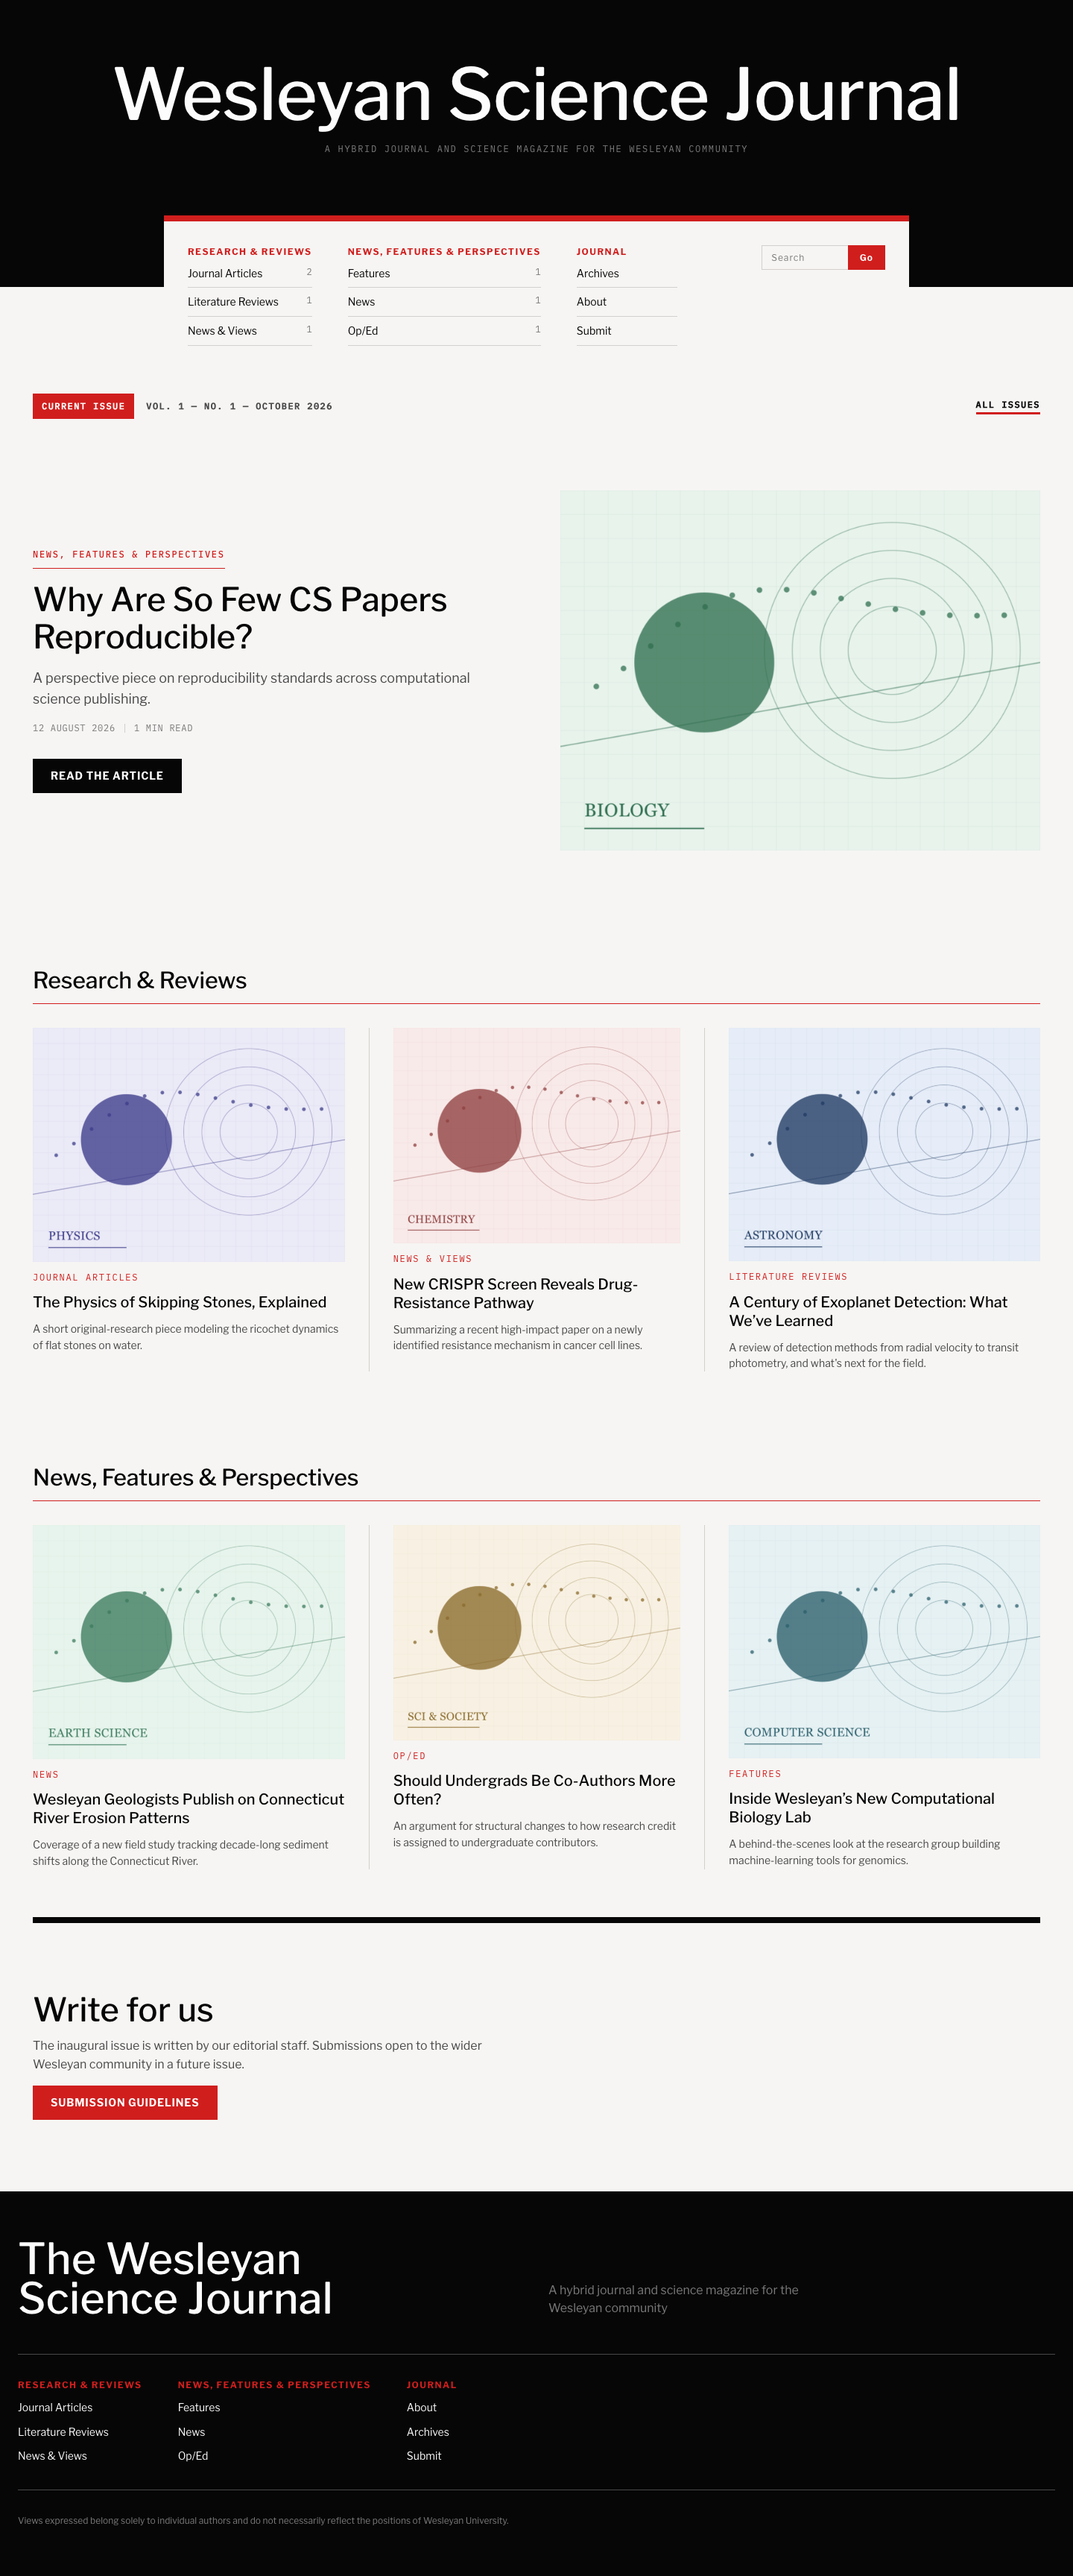
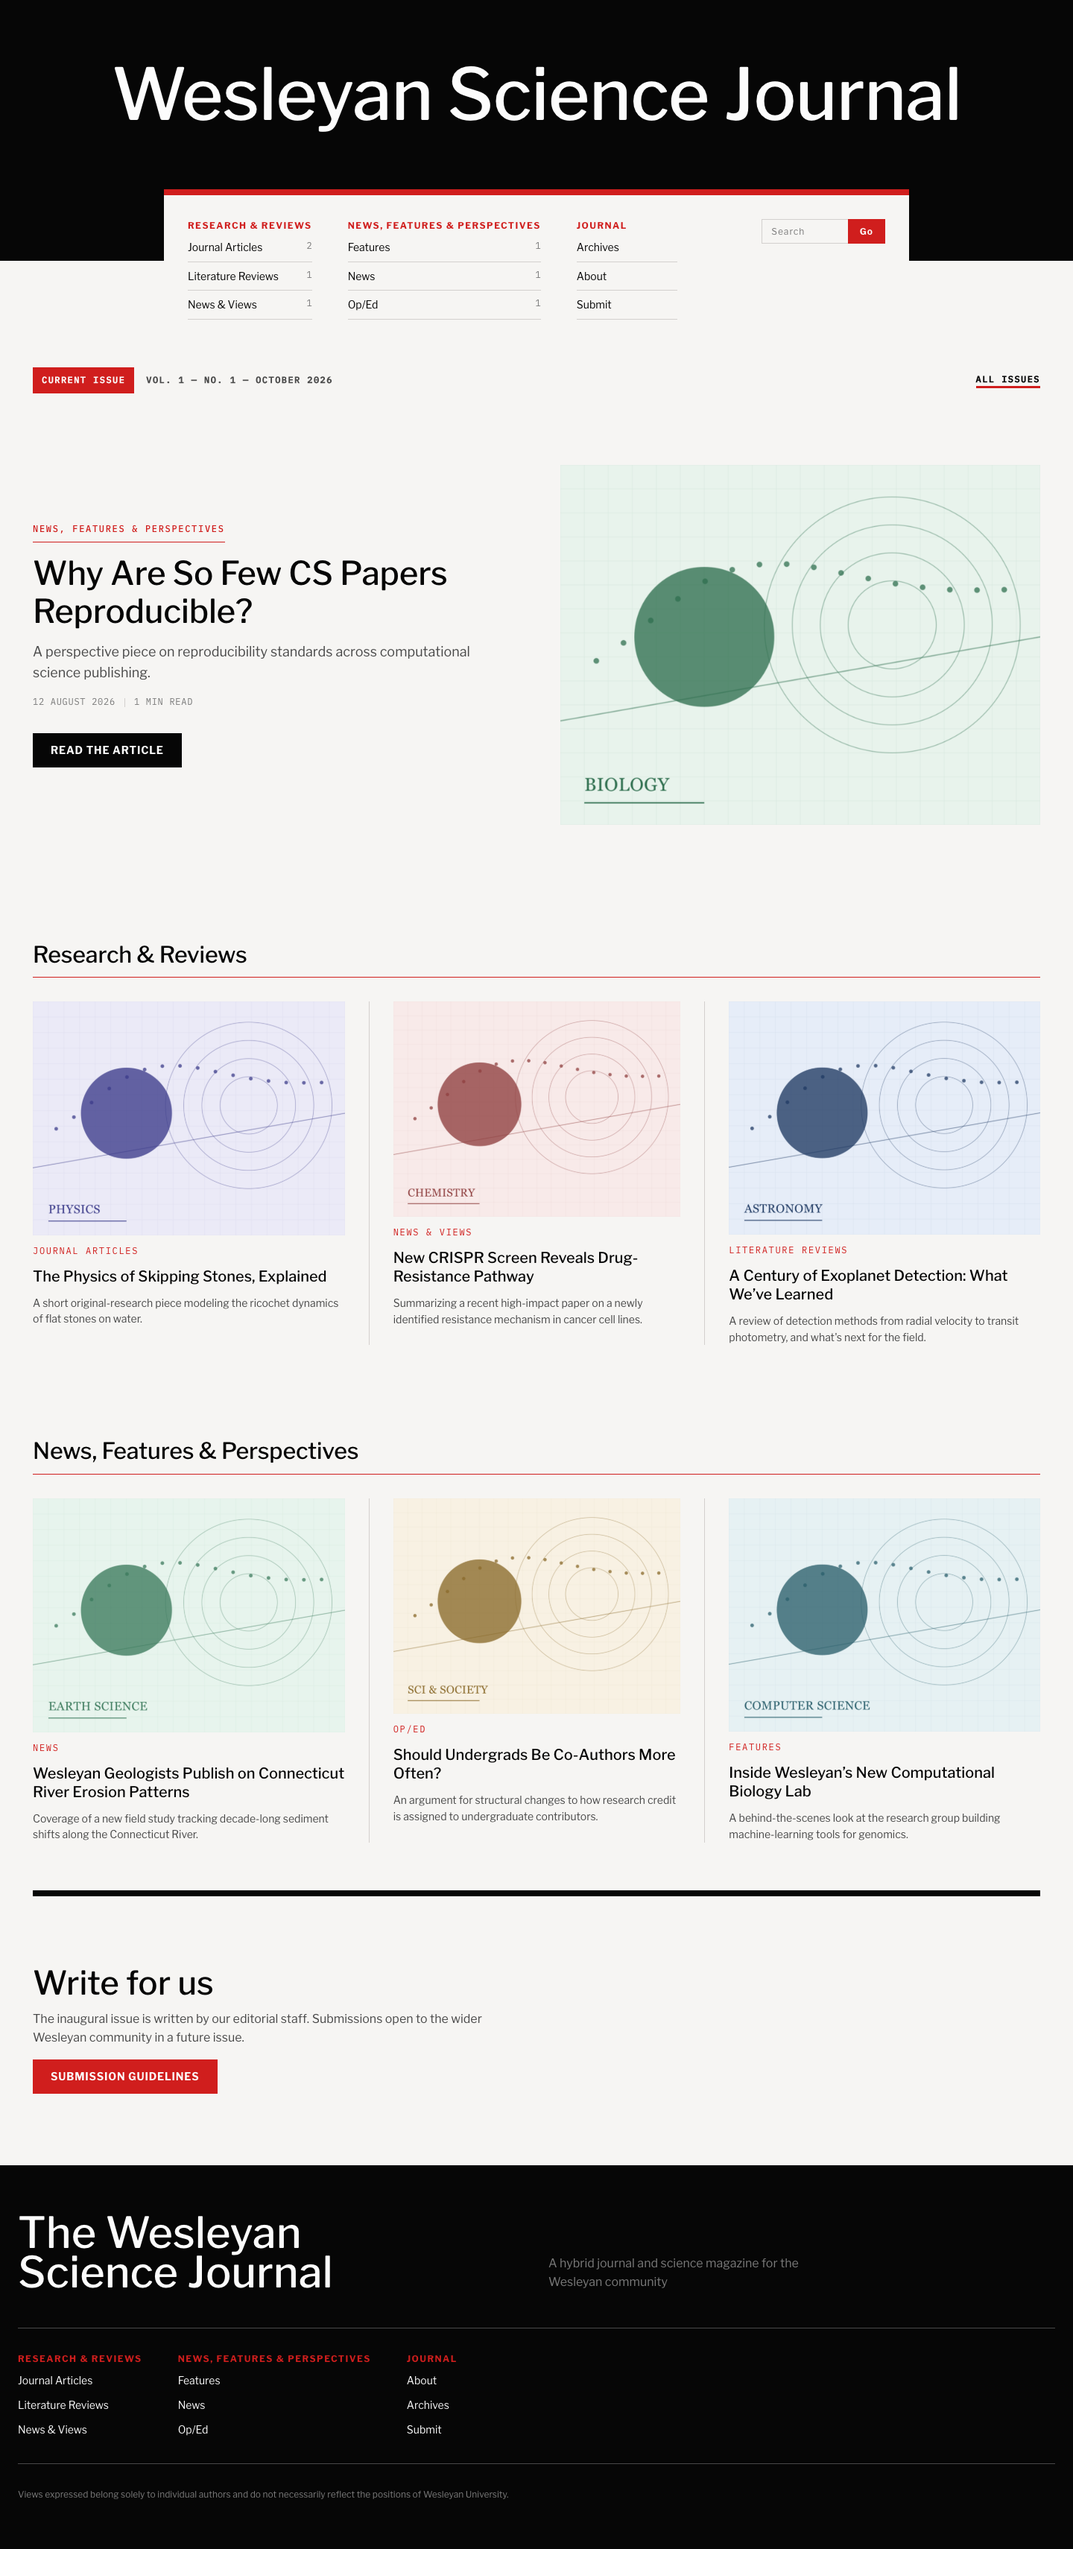
Drop the tagline from hybrid-b's hero band

diff --git a/themes/wessci-hybrid-b/style.css b/themes/wessci-hybrid-b/style.css
@@ -119,15 +119,6 @@ h1, h2, h3 {
 	text-decoration: none;
 }
 
-.hero__descriptor {
-	margin-top: var(--space-4);
-	color: var(--color-ink-3);
-	font-family: var(--font-mono);
-	font-size: var(--text-xs);
-	letter-spacing: 0.14em;
-	text-transform: uppercase;
-}
-
 .hero__index { padding-inline: var(--space-6); }
 
 .hero__index-inner {

diff --git a/themes/wessci-hybrid-b/header.php b/themes/wessci-hybrid-b/header.php
@@ -13,7 +13,6 @@
 <header class="hero">
 	<div class="hero__band">
 		<a class="hero__title" href="<?php echo esc_url( home_url( '/' ) ); ?>">Wesleyan Science Journal</a>
-		<p class="hero__descriptor">A hybrid journal and science magazine for the Wesleyan community</p>
 	</div>
 
 	<nav class="hero__index" aria-label="Sections">
